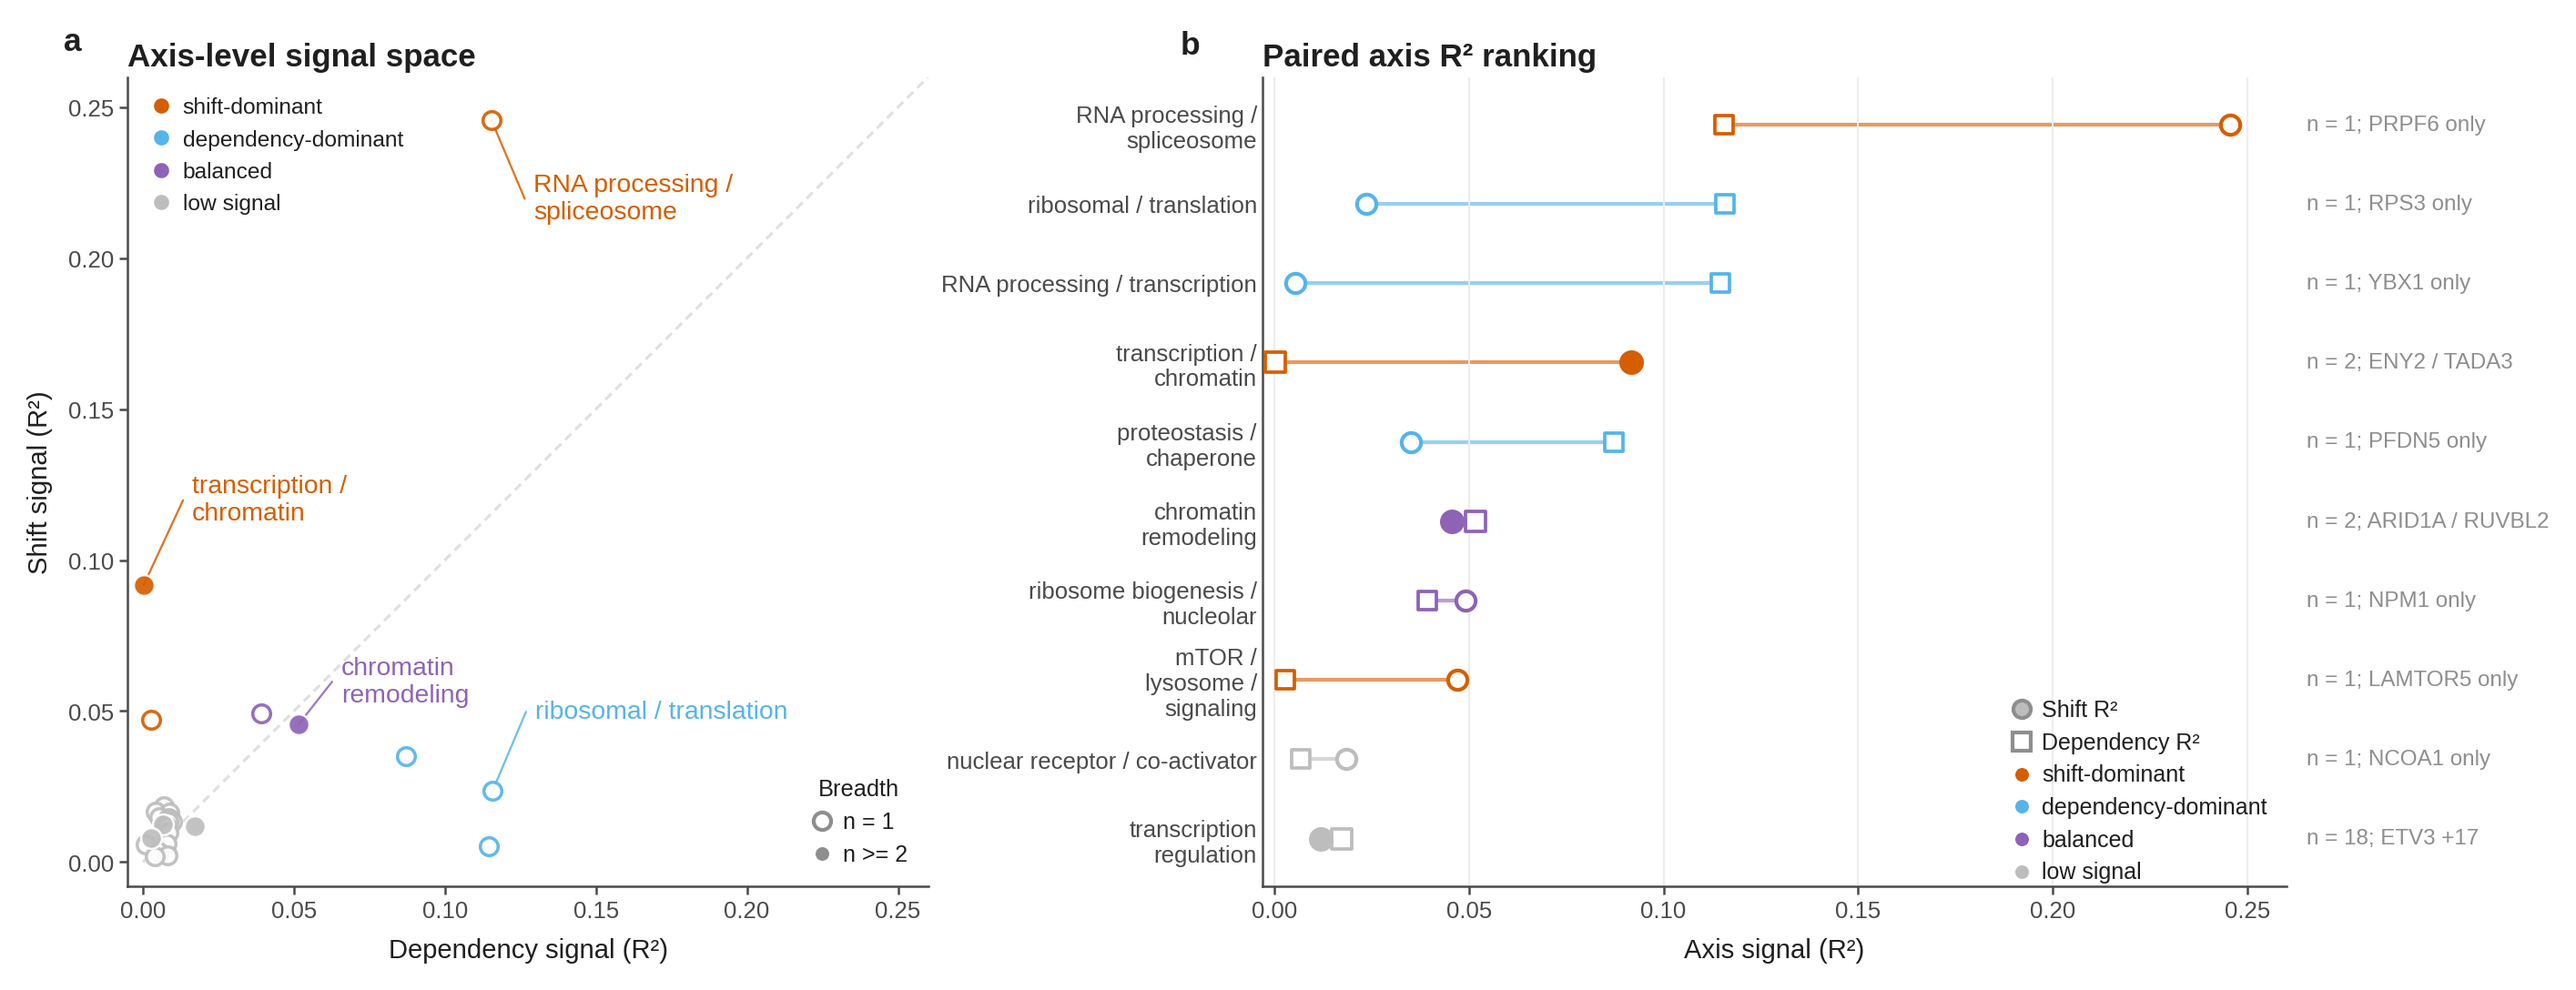
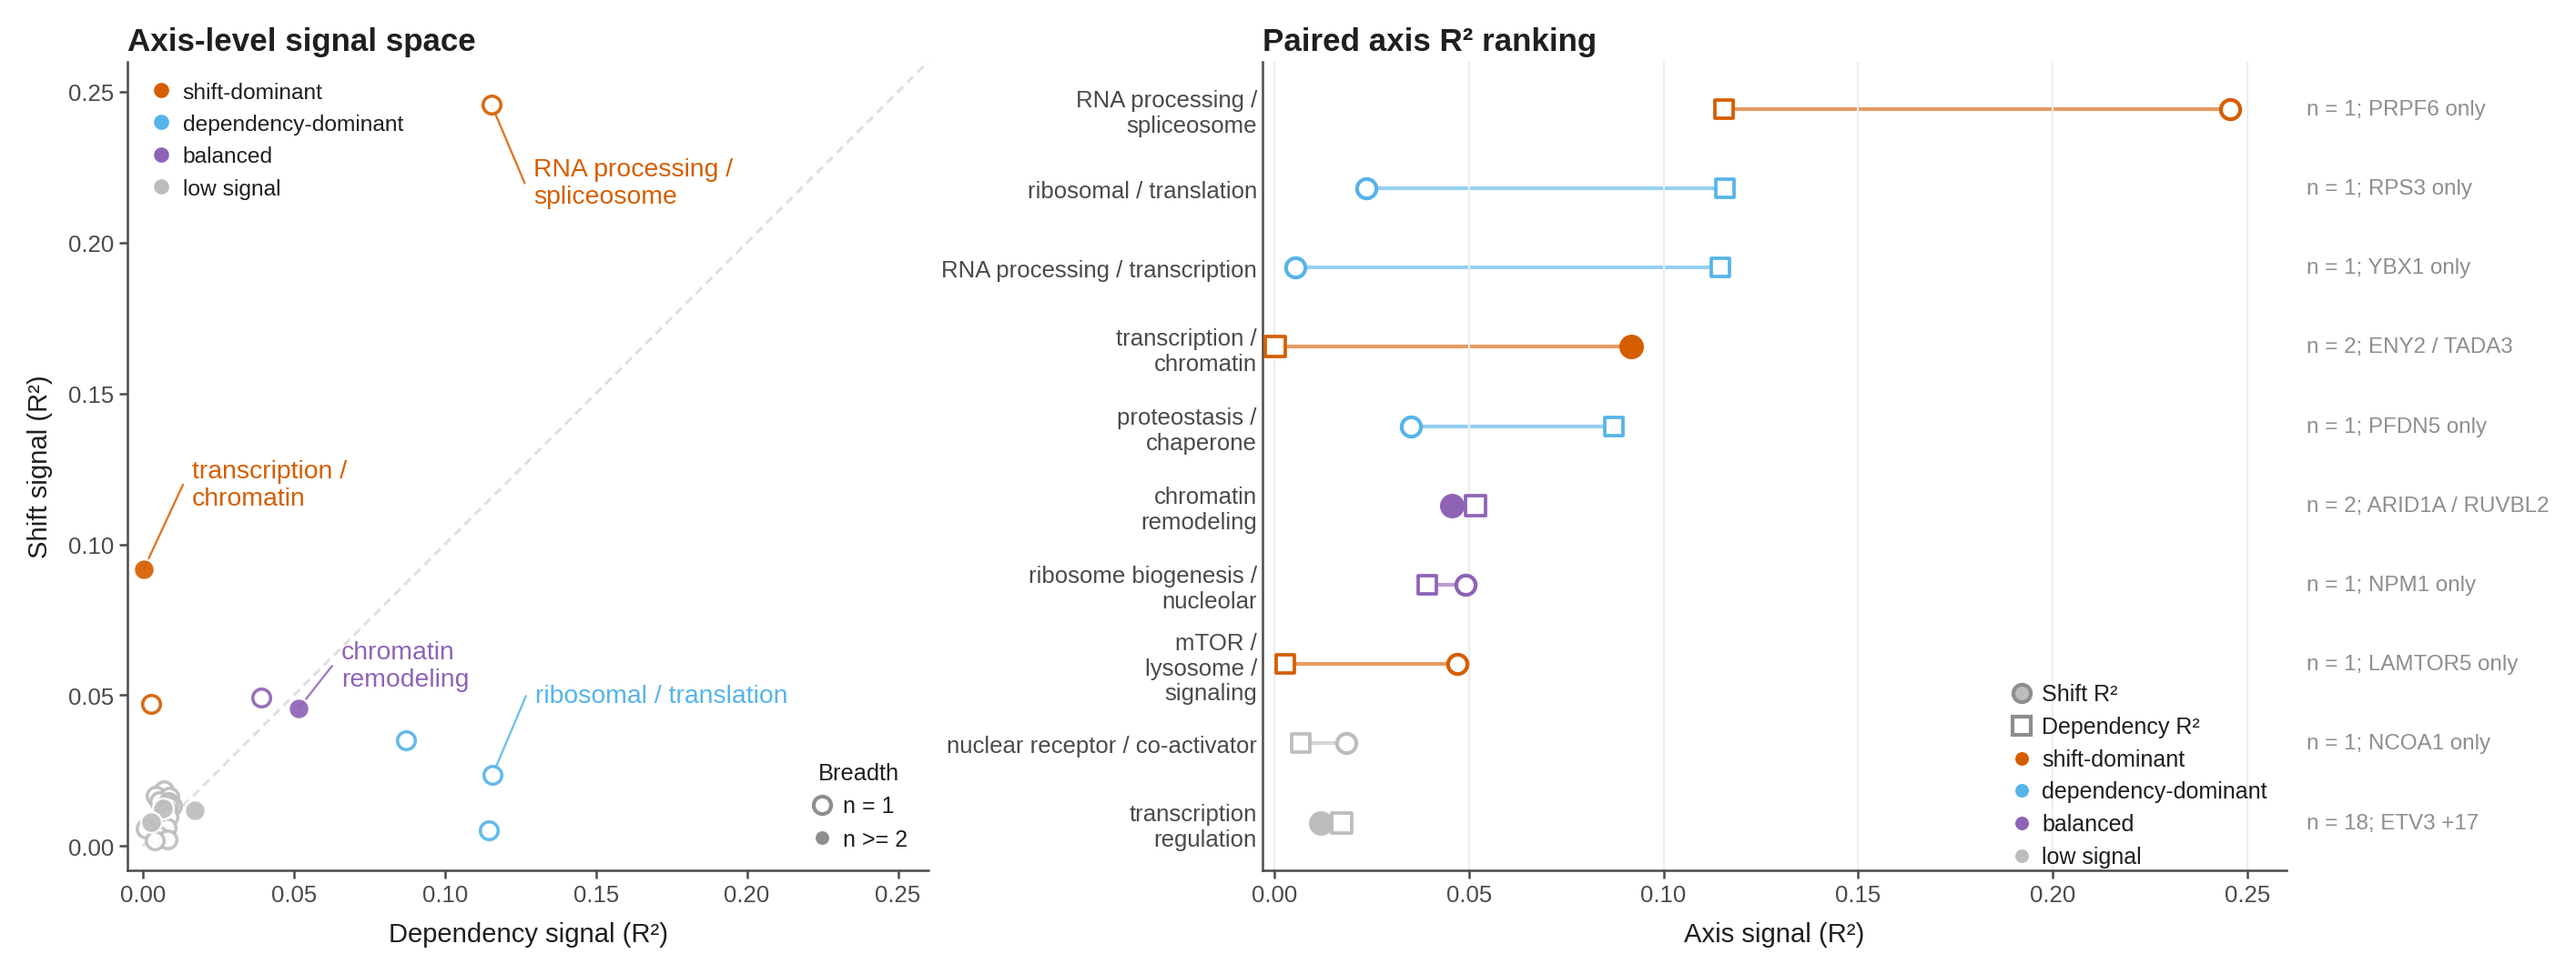
remove: strip all panel letters from Extended Data Figures 1-5
Panel letters (a/b/c/...) removed from both PIL composite scripts
(ED Fig 1/2/3) and matplotlib source modules (ED Fig 4/5). All five
figures rebuilt from modified source to produce clean outputs.

diff --git a/src/wtbench/manuscript/extended_data_figure1.py b/src/wtbench/manuscript/extended_data_figure1.py
@@ -251,7 +251,7 @@ def render_panel_a(ax: plt.Axes, df: pd.DataFrame) -> None:
     y = draw_rows(y, endpoint, fontsize=6.0)
 
     ax.plot([left, right], [y - 0.015, y - 0.015], color="#222222", lw=0.7, transform=ax.transAxes)
-    add_panel_label(ax, "a", x=-0.02, y=1.02)
+    # add_panel_label(ax, "a", x=-0.02, y=1.02)  # panel letter removed
 
 
 def render_umap_panel(ax: plt.Axes, df: pd.DataFrame, panel_id: str, title: str) -> None:
@@ -294,7 +294,7 @@ def render_umap_panel(ax: plt.Axes, df: pd.DataFrame, panel_id: str, title: str)
     ax.set_yticks([])
     for spine in ax.spines.values():
         spine.set_visible(False)
-    add_panel_label(ax, panel_id)
+    # add_panel_label(ax, panel_id)  # panel letter removed
     # Keep all four UMAP panels the same visual size in the combined figure.
     ax.set_box_aspect(1)
     draw_umap_axes()
@@ -322,7 +322,7 @@ def render_shift_panel(ax: plt.Axes, df: pd.DataFrame, panel_id: str, title: str
     ax.set_xlabel("Absolute mean perturbation shift", fontsize=6)
     ax.set_title(title, loc="left", fontsize=7.5)
     clean_axes(ax)
-    add_panel_label(ax, panel_id, x=-0.28)
+    # add_panel_label(ax, panel_id, x=-0.28)  # panel letter removed
     ax.grid(axis="x", color=COLORS["grid"], linewidth=0.5)
 
 

diff --git a/scripts/manuscript/fix_edfig3_panelb_square.py b/scripts/manuscript/fix_edfig3_panelb_square.py
@@ -212,7 +212,7 @@ def composite_with_pil(panel_a_png: Path, panel_b_png: Path):
     # Add panel letters via PIL — pixel-perfect alignment
     font = ImageFont.truetype("/usr/share/fonts/truetype/dejavu/DejaVuSans-Bold.ttf", 34)
     draw_a = ImageDraw.Draw(img_a)
-    draw_a.text((32, 12), "a  K562 temporal stratification (7d vs 13d)", fill="#1F1F1F", font=font)
+    draw_a.text((32, 12), "K562 temporal stratification (7d vs 13d)", fill="#1F1F1F", font=font)  # panel letter removed
 
     # Panel b: add top padding so title doesn't crowd the figure
     pad_top = 50
@@ -221,7 +221,7 @@ def composite_with_pil(panel_a_png: Path, panel_b_png: Path):
     img_b = img_b_padded
 
     draw_b = ImageDraw.Draw(img_b)
-    draw_b.text((32, 16), "b  Large-scale perturbation-fitness bridge confirmation", fill="#1F1F1F", font=font)
+    draw_b.text((32, 16), "Large-scale perturbation-fitness bridge confirmation", fill="#1F1F1F", font=font)  # panel letter removed
 
     total_h = img_a.height + img_b.height
     composite = Image.new("RGB", (target_w, total_h), "white")

diff --git a/scripts/manuscript/build_edfig1_composite.py b/scripts/manuscript/build_edfig1_composite.py
@@ -32,7 +32,7 @@ def add_panel_letter(img: Image.Image, letter: str) -> Image.Image:
 def main():
     # Row 0: Panel a (table)
     row0 = load("a")
-    row0 = add_panel_letter(row0, "a")
+    # row0 = add_panel_letter(row0, "a")  # panel letter removed
     row0 = row0.resize((TARGET_W, int(row0.height * TARGET_W / row0.width)), Image.LANCZOS)
 
     # Row 1: 5 UMAPs side by side
@@ -47,7 +47,7 @@ def main():
     for im in umap_imgs:
         row1.paste(im, (x, 0))
         x += im.width
-    row1 = add_panel_letter(row1, "b")
+    # row1 = add_panel_letter(row1, "b")  # panel letter removed
     row1 = row1.resize((TARGET_W, int(UMAP_H * TARGET_W / row1_w)), Image.LANCZOS)
 
     # Row 2: 5 arrow panels in a single row
@@ -61,7 +61,7 @@ def main():
     for im in arrow_imgs:
         row2.paste(im, (x, 0))
         x += im.width
-    row2 = add_panel_letter(row2, "c")
+    # row2 = add_panel_letter(row2, "c")  # panel letter removed
     row2 = row2.resize((TARGET_W, int(ARROW_H * TARGET_W / row2_w)), Image.LANCZOS)
 
     # Vertical stack

diff --git a/src/wtbench/manuscript/extended_data_figure3_v2.py b/src/wtbench/manuscript/extended_data_figure3_v2.py
@@ -119,7 +119,7 @@ def build_panel_b_source(root: Path) -> pd.DataFrame:
 
 def render_panel_a(ax: plt.Axes, df: pd.DataFrame) -> None:
     ax.set_axis_off()
-    add_panel_heading(ax, "a", "Temporal bridge-magnitude dissociation", label_x=-0.025, title_x=0.035, y=1.015)
+    add_panel_heading(ax, "", "Temporal bridge-magnitude dissociation", label_x=-0.025, title_x=0.035, y=1.015)
 
     ax.plot([0.52, 0.555], [0.93, 0.93], color=PRIMARY_GREEN, linewidth=1.2, transform=ax.transAxes, clip_on=False)
     ax.scatter([0.5375], [0.93], s=14, color=PRIMARY_GREEN, transform=ax.transAxes, clip_on=False)
@@ -252,7 +252,7 @@ def render_panel_b(ax: plt.Axes, df: pd.DataFrame) -> None:
 
     clean_axes(ax)
     ax.set_box_aspect(1)
-    add_panel_heading(ax, "b", "Large-scale perturbation-fitness bridge confirmation", label_x=-0.08, title_x=0.02, y=1.035)
+    add_panel_heading(ax, "", "Large-scale perturbation-fitness bridge confirmation", label_x=-0.08, title_x=0.02, y=1.035)
 
 
 def build_sources(root: Path) -> dict[str, pd.DataFrame]:

diff --git a/src/wtbench/manuscript/extended_data_figure10_axis_explanatory.py b/src/wtbench/manuscript/extended_data_figure10_axis_explanatory.py
@@ -172,7 +172,7 @@ def build_axis_sources(root: Path) -> tuple[pd.DataFrame, pd.DataFrame]:
 
 
 def render_panel_a(ax: plt.Axes, df: pd.DataFrame) -> None:
-    add_panel_label(ax, "a", x=-0.08, y=1.025)
+    # add_panel_label(ax, "a", x=-0.08, y=1.025)  # panel letter removed
     lim_max = 0.26
     ax.plot([0, lim_max], [0, lim_max], color=DIVIDER_GRAY, linewidth=0.75, linestyle=(0, (3, 2)), zorder=0)
 
@@ -264,7 +264,7 @@ def render_panel_a(ax: plt.Axes, df: pd.DataFrame) -> None:
 
 
 def render_panel_b(ax: plt.Axes, df: pd.DataFrame) -> None:
-    add_panel_label(ax, "b", x=-0.08, y=1.02)
+    # add_panel_label(ax, "b", x=-0.08, y=1.02)  # panel letter removed
     sort_col = "max_axis_r2" if "max_axis_r2" in df.columns else "shift_r2_mean"
     plot = df.sort_values(sort_col, ascending=False).reset_index(drop=True)
     y = list(range(len(plot)))[::-1]

diff --git a/scripts/manuscript/build_edfig2_composite.py b/scripts/manuscript/build_edfig2_composite.py
@@ -39,11 +39,12 @@ def add_panel_letter(img: Image.Image, letter: str) -> Image.Image:
 
 def main():
     # Row 0: a + b (each with own panel letter)
-    row0 = hpair(add_panel_letter(load("a"), "a"), add_panel_letter(load("b"), "b"))
+    # add_panel_letter calls removed
+    row0 = hpair(load("a"), load("b"))
     # Row 1: c + d
-    row1 = hpair(add_panel_letter(load("c"), "c"), add_panel_letter(load("d"), "d"))
+    row1 = hpair(load("c"), load("d"))
     # Row 2: e
-    img_e = add_panel_letter(load("e"), "e")
+    img_e = load("e")  # add_panel_letter removed
 
     # Rows 0-1 determine width; panel e keeps native size (centered)
     W = max(row0.width, row1.width)

diff --git a/src/wtbench/manuscript/extended_data_figure9_biological_landing.py b/src/wtbench/manuscript/extended_data_figure9_biological_landing.py
@@ -151,7 +151,7 @@ def build_sources(root: Path) -> dict[str, pd.DataFrame]:
 
 def render_panel_a(ax: plt.Axes, df: pd.DataFrame) -> None:
     ax.set_axis_off()
-    add_panel_label(ax, "a", x=-0.08, y=1.02)
+    # add_panel_label(ax, "a", x=-0.08, y=1.02)  # panel letter removed
     ax.text(
         0.02,
         1.02,
